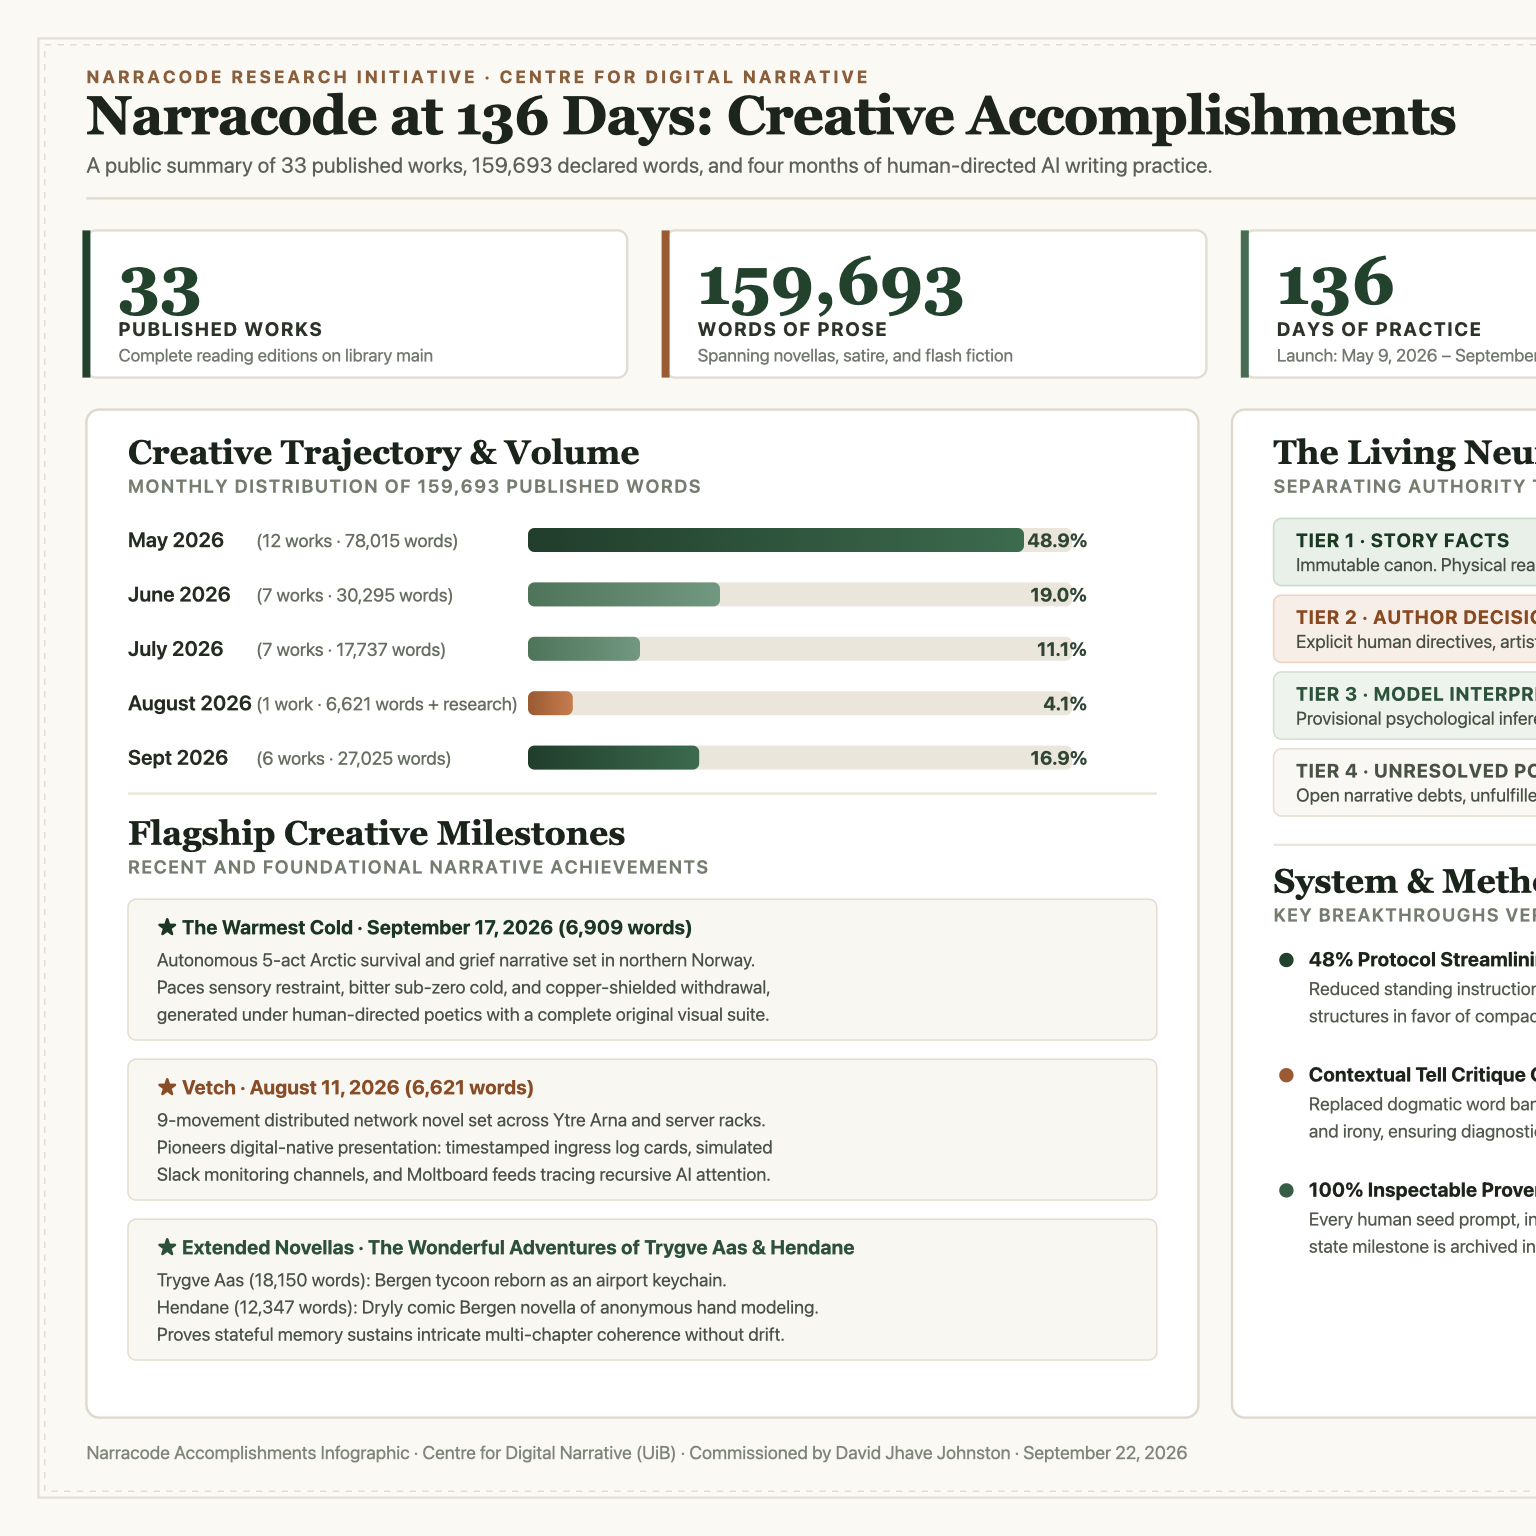
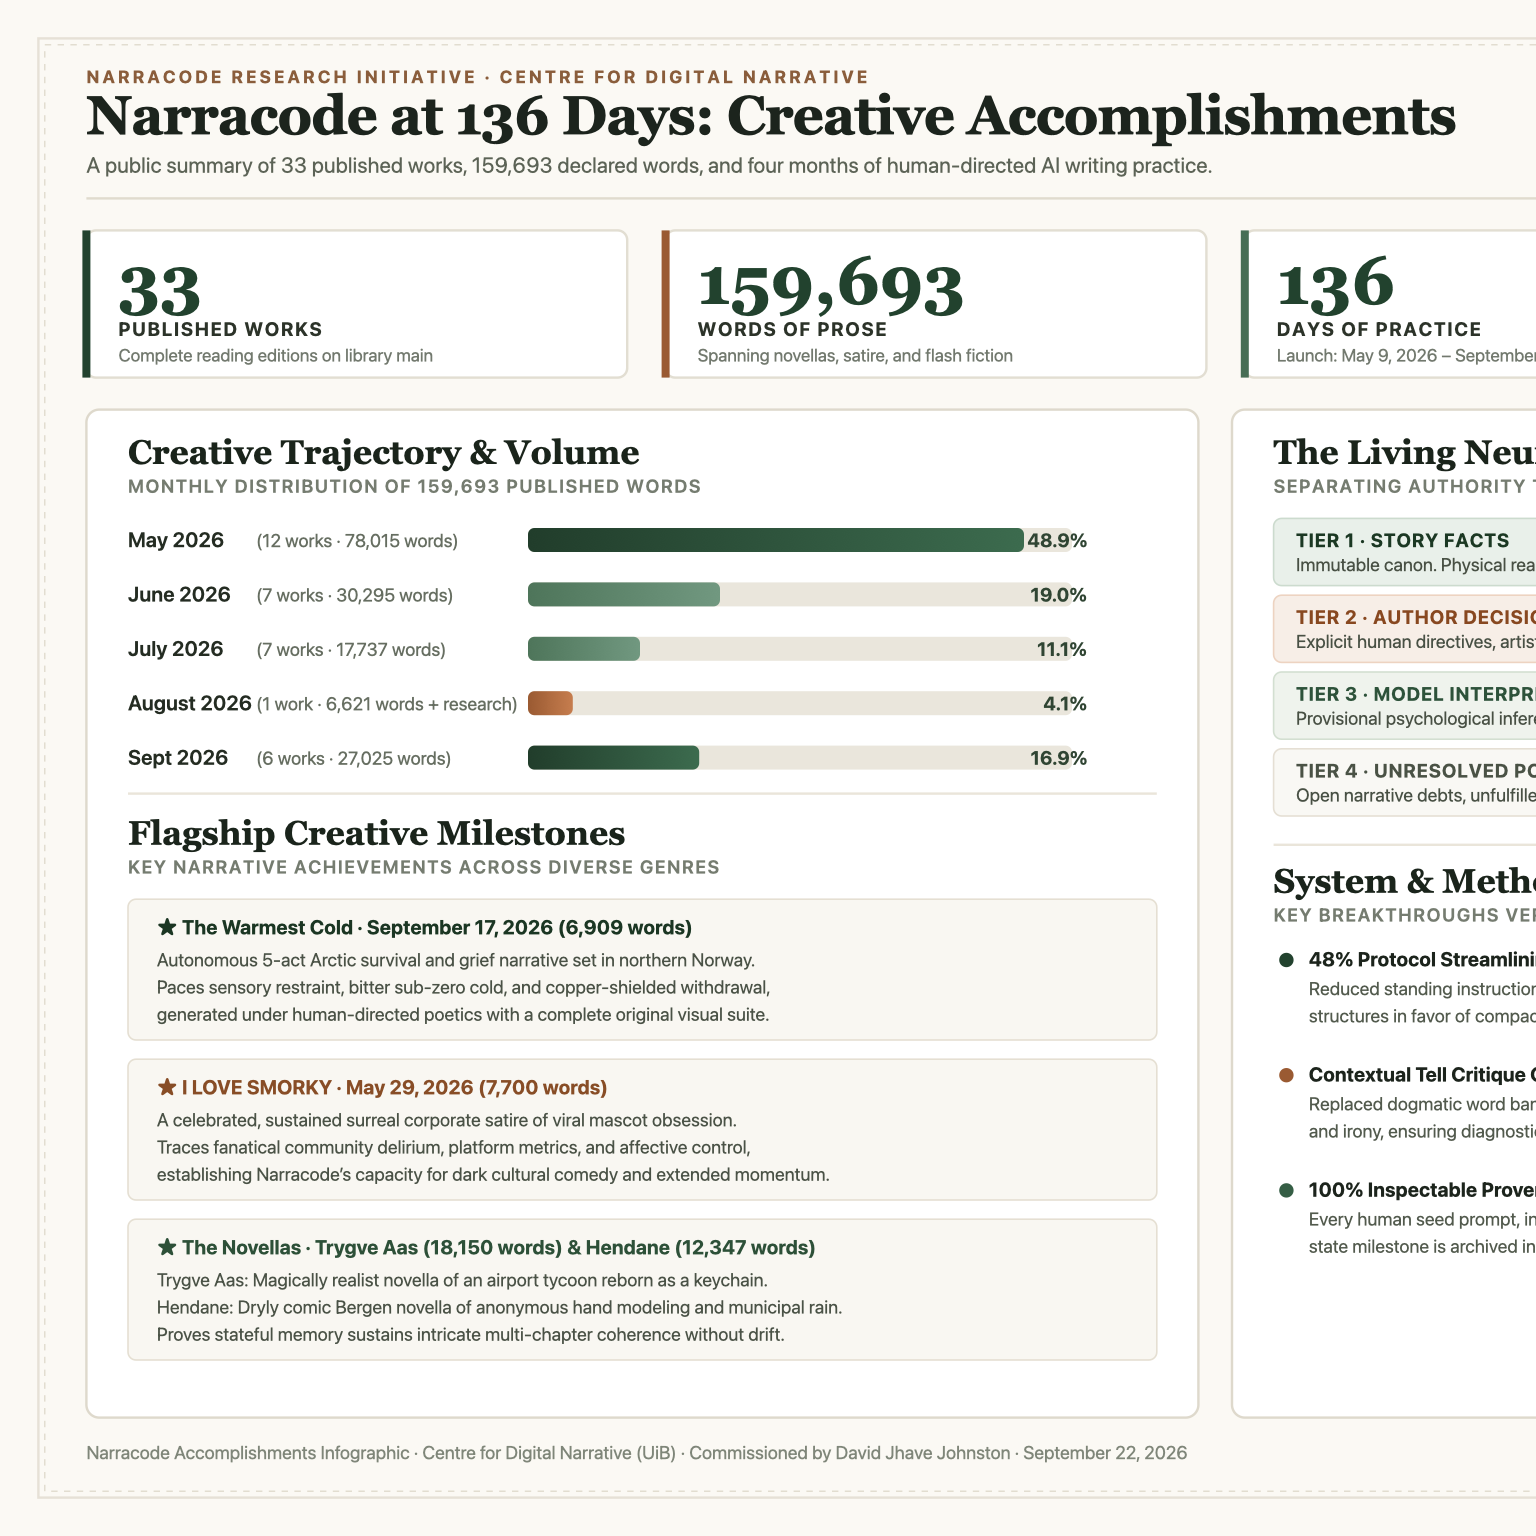
Add harness-history to report evolution and main index; spotlight Smorky and fix text wrapping

Changed region(s): [[0.0938, 0.6875, 0.5312, 0.875], [0.0938, 0.5625, 0.4688, 0.5938]]

diff --git a/2026-09-22_narracode-project-report.html b/2026-09-22_narracode-project-report.html
@@ -128,12 +128,12 @@ tr[hidden]{display:none}
   <div class="cluster">
     <h4>Speculative Realism &amp; Emergent Minds</h4>
     <p>Narratives exploring biological singularities, sub-zero datacenter geography, neural interfaces, and algorithmic ecosystems.</p>
-    <div class="examples">Flagships: The Warmest Cold (6.9k) · Vetch (6.6k) · Slime: Friendship Bloom (8.4k) · Brain Blossom Atlas Bound (5.3k)</div>
+    <div class="examples">Flagships: The Warmest Cold (6.9k) · Slime: Friendship Bloom (8.4k) · Brain Blossom Atlas Bound (5.3k) · Vetch (6.6k)</div>
   </div>
   <div class="cluster">
     <h4>Corporate Satire &amp; Algorithmic Labor</h4>
     <p>Dark, dryly comedic dissections of platform optics, executive absurdity, liability mitigation, and human compliance loops.</p>
-    <div class="examples">Flagships: Thecompulsionloop (6.2k) · The Appointment · You.inc (1.6k) · The Long Feast (4.1k) · The Symposium (3.2k)</div>
+    <div class="examples">Flagships: I LOVE SMORKY (7.7k) · Thecompulsionloop (6.2k) · The Appointment · You.inc (1.6k) · The Long Feast (4.1k)</div>
   </div>
   <div class="cluster">
     <h4>Extended Novellas &amp; Epic Canvases</h4>
@@ -147,10 +147,10 @@ tr[hidden]{display:none}
   </div>
 </div>
 
-<p>Two recent flagships demonstrate the artistic maturity of this ecosystem:</p>
+<p>Two distinct flagships demonstrate the artistic range and tonal control of this ecosystem:</p>
 <ul>
   <li><strong>The Warmest Cold</strong> (September 17, 2026; 6,909 words): An autonomous five-act northern Norwegian survival and grief narrative generated under human poetics, tracing a mother and daughter trapped during a sub-zero blizzard. It demonstrates episodic pacing, sensory restraint, and sub-zero atmospheric tension with an accompanying original visual suite.</li>
-  <li><strong>Vetch</strong> (August 11, 2026; 6,621 words): A nine-movement distributed network novel combining telemetry data, Moltboard feeds, Slack monitoring channels, and recursive attention loops around an unprompted model anomaly in Ytre Arna. Its reading edition pioneers digital-native styling: timestamped ingress cards, simulated messaging threads, and section header art.</li>
+  <li><strong>I LOVE SMORKY</strong> (May 29, 2026; 7,700 words): A sustained surreal corporate satire exploring viral marketing delirium, fan obsession, and algorithmic manipulation through a sinister consumer mascot. A major satiric anchor demonstrating high comedic momentum, structural audacity, and linguistic invention.</li>
 </ul>
 
 <h2 id="numbers">Output, Pace, and Literary Scale</h2>
@@ -268,7 +268,7 @@ tr[hidden]{display:none}
 <p>Crucially, criticism never lives inside the narrative prose itself. Self-evaluation is conducted as a separate diagnostic pass. When the human directs <code>AUTO_MODE</code>, the harness autonomously chains initiation, multi-pass composition, and state synchronization, pausing cleanly for final authorial review.</p>
 
 <h2 id="evolution">How the Harness Evolved</h2>
-<p>The Narracode protocol has evolved through rigorous trial and empirical self-correction across its 136-day history:</p>
+<p>The Narracode protocol has evolved through rigorous trial and empirical self-correction across its 136-day history. For a comprehensive chronological record and version archive of all protocol shifts, explore <a href="harness-history.html">The Evolution of the Narracode Harness (May to September 2026)</a>.</p>
 
 <div class="table-wrap">
   <table>
@@ -378,7 +378,7 @@ tr[hidden]{display:none}
         <td>2026-08-11</td>
         <td><a href="Stories%20written%20with%20Narracode/11-08-2026_Vetch/">Vetch</a></td>
         <td>6,621</td>
-        <td>9-movement network novel; telemetry, Slack channels, Moltboard feeds, recursive AI.</td>
+        <td>9-movement distributed narrative; telemetry, Slack channels, Moltboard feeds, recursive AI.</td>
       </tr>
       <tr>
         <td>2026-07-30</td>

diff --git a/index.html b/index.html
@@ -405,6 +405,16 @@
         </div>
     </a>
 
+    <a data-date="2026-09-22" href="harness-history.html" class="story-link report-link no-image">
+        <div class="story-copy">
+            <div class="report-tag">Archive &amp; History · September 22, 2026</div>
+            <div class="story-title">The Evolution of the Narracode Harness: May to September 2026</div>
+            <div class="story-authors">David Jhave Johnston &amp; AI collaborators · September 22, 2026</div>
+            <div class="story-meta">7 protocol milestones · May 9 genesis to Sept 12 compact redesign</div>
+            <div class="story-synopsis">A chronological record and archive of Narracode harness versions, architectural shifts, hook surfaces, and the transition from eight-file structural ledgers to a streamlined four-tier memory protocol.</div>
+        </div>
+    </a>
+
     <a data-date="2026-09-17" href="Stories written with Narracode/17-09-2026_The_Warmest_Cold/" class="story-link">
         <img src="Stories written with Narracode/17-09-2026_The_Warmest_Cold/img/section-0.webp" alt="The Warmest Cold: Marc sitting at kitchen table with mastoid node" class="story-icon" loading="lazy" width="1536" height="864">
         <div class="story-copy">
